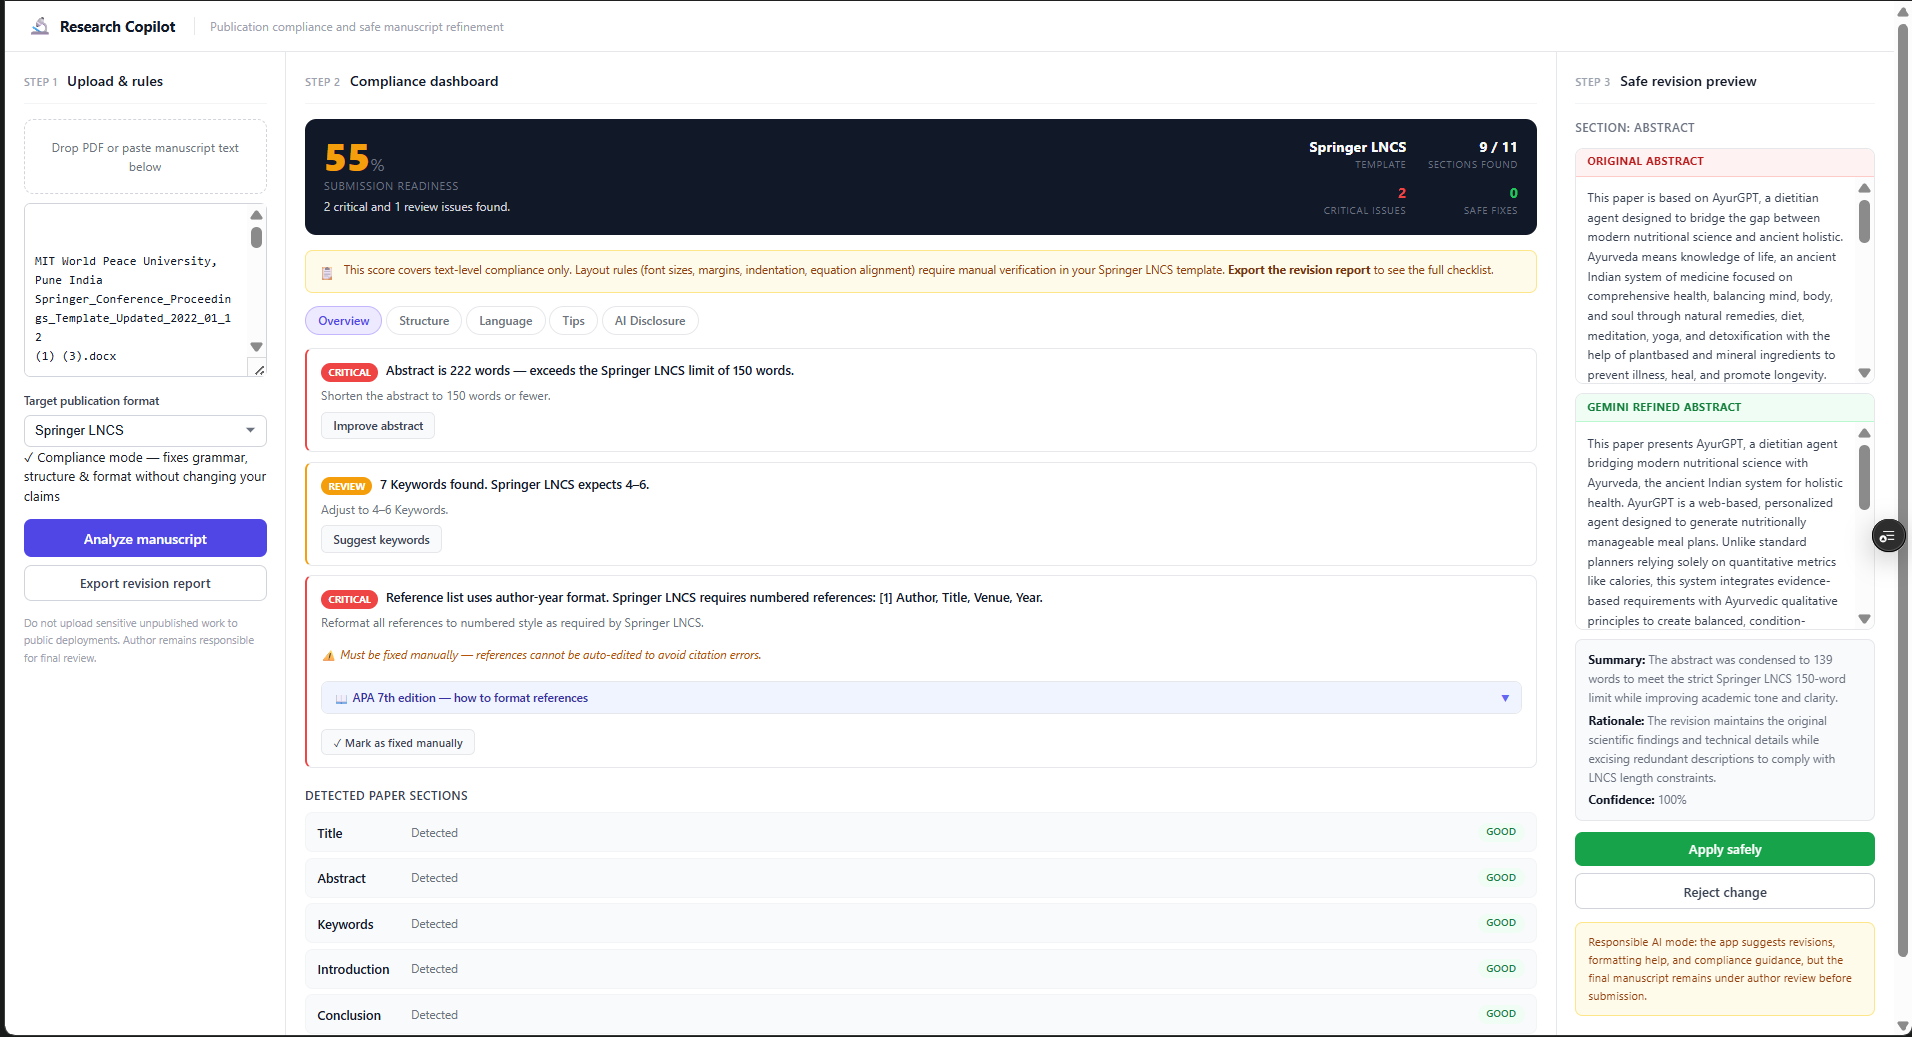
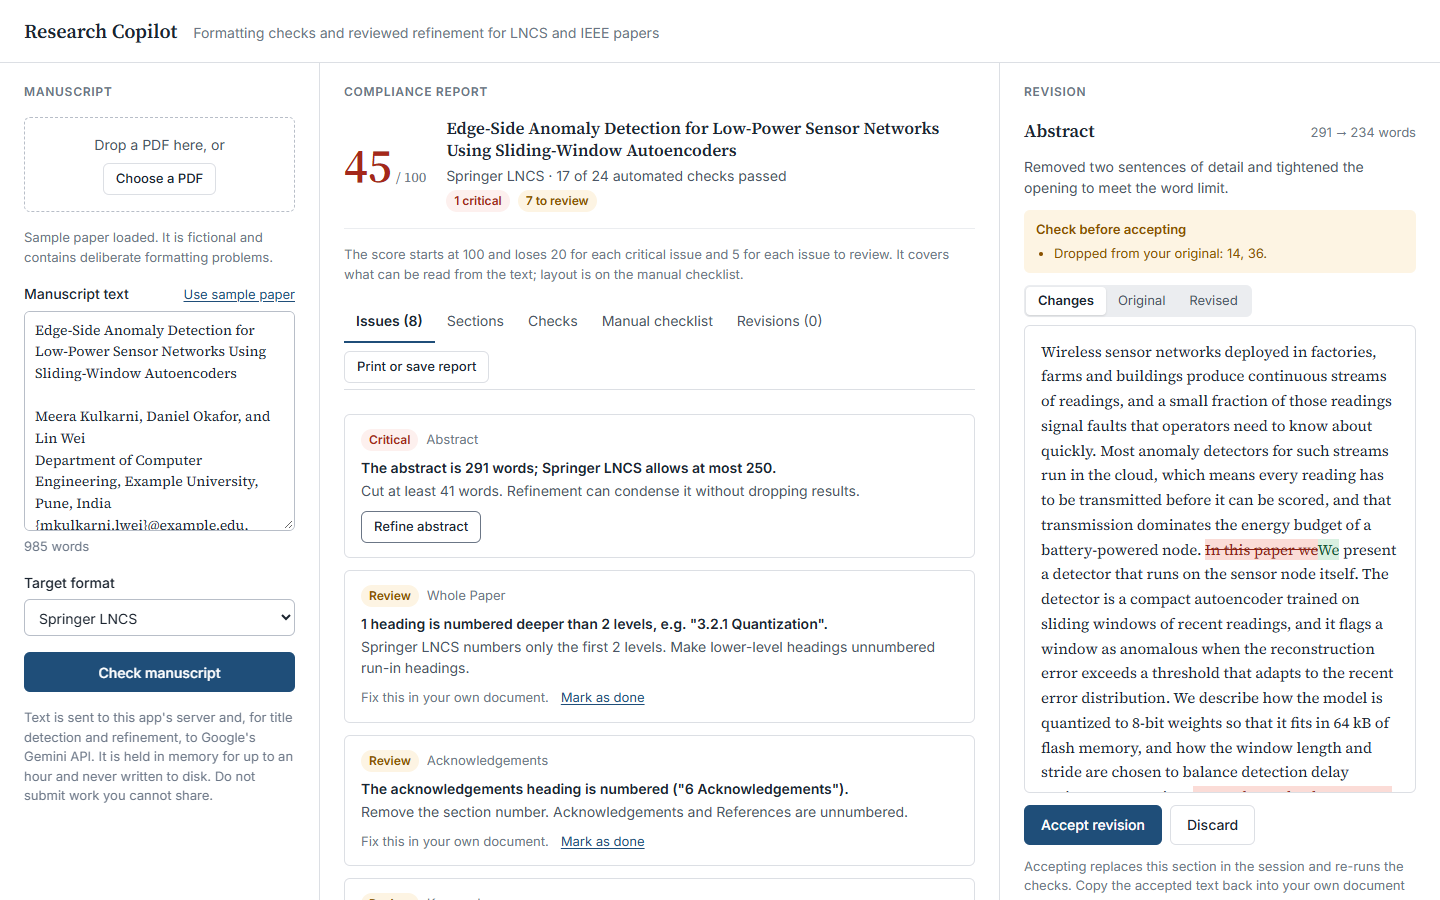
rewrite README and replace demo screenshot

Changed region(s): [[0.0, 0.0, 1.0, 1.0]]

diff --git a/README.md b/README.md
@@ -1,107 +1,139 @@
 # Research Copilot
 
-A web app that checks research manuscripts against Springer LNCS and IEEE Conference formatting rules, then uses Gemini to safely refine individual sections without changing the technical meaning.
+Checks a research manuscript against Springer LNCS or IEEE conference formatting rules, and uses Gemini to refine one section at a time. Every suggested revision is shown as a diff and is only applied when the author accepts it.
 
-**Live demo → [research-copilot-eight.vercel.app](https://research-copilot-eight.vercel.app)**
+**Live demo:** [research-copilot-eight.vercel.app](https://research-copilot-eight.vercel.app). The API runs on a free instance that sleeps when idle, so the first request can take up to a minute. Use the "Use sample paper" link to try it without a manuscript.
 
----
-![Compliance dashboard](docs/demo.png)
-
----
+![Compliance report with a revision open](docs/demo.png)
 
 ## What it does
 
-Paste or upload a manuscript, pick a target publication format, and get:
+1. Paste manuscript text or upload a PDF.
+2. Pick a target format: Springer LNCS or IEEE Conference.
+3. Get a report: failed checks with severity, a per-section status, a pass/fail table of every automated check, and a checklist of layout rules that cannot be verified from text.
+4. Ask for a refinement of a section. The revision appears as a word-level diff next to the original.
+5. Accept or discard it. Accepting re-runs the checks.
+6. Print or save the report, including the full text of accepted revisions.
 
-- A structured compliance report with issues grouped by severity
-- Section-level detection: missing sections, weak abstract, bad citation style, caption format, acronym issues
-- Gemini-powered refinement for any section, with a side-by-side diff before you accept
-- Exportable checklist of what was flagged and what was fixed
-
-It does not rewrite your paper. It does not change your claims. Every AI-assisted change is shown in a diff so you stay in control.
-
----
-
-## Try it fast
-
-1. Open the live demo
-2. Paste any research abstract or upload a PDF
-3. Select **Springer LNCS**
-4. Click **Analyze manuscript**
-5. Hit **Improve abstract** on any flagged issue to see Gemini refine it with a side-by-side diff
-
-No account needed.
-
----
+It does not generate papers, check plagiarism, manage citations, or verify layout (fonts, margins, columns). It works on text only.
 
 ## How it works
 
 ```
-Paste/upload manuscript
-  → pick LNCS or IEEE
-  → Gemini extracts structure (title, abstract, sections, keywords)
-  → rule engine checks compliance against profile config
-  → report with Critical / Review severity tags
-  → click Refine on any section
-  → Gemini returns revised_text + change_summary + confidence score
-  → diff view → accept or discard
+text or PDF
+  → PDF text extraction (pdf.js), running heads removed, hyphenated words rejoined
+  → section parser: numbered and standard headings, validated by numbering sequence
+  → Gemini: title / abstract / keywords from the first page, kept only if found verbatim in the source
+  → rule engine: deterministic checks driven by a profile config
+  → report
+
+refine a section
+  → Gemini (JSON mode, fixed schema, low temperature) with the failed rules as requirements
+  → deterministic check: every number and citation in the original must survive; none may be added
+  → one retry with the specific failure, then remaining problems are shown to the author as warnings
+  → diff → accept or discard
 ```
 
----
+Design decisions worth knowing about:
+
+- **The score never comes from the model.** All checks are regular code in [evaluateCompliance.js](backend/src/rules/evaluateCompliance.js). The score is `100 − 20 × critical − 5 × review`.
+- **Gemini is optional for analysis.** If the API key is missing, rate-limited or down, parsing falls back to rules alone and the report still renders. Only refinement needs Gemini.
+- **Model output is checked, not trusted.** Extracted fields must appear word for word in the manuscript. Revisions are compared against the original for changed numbers and citations ([preservation.js](backend/src/ai/preservation.js)).
+- **Only some issues are refinable.** Length, wording and keyword count can be fixed by rewriting. Missing sections, reference format, heading numbering and captions are marked as manual, because fixing them would require the model to invent content or restructure the paper.
+- **References are never sent for rewriting.**
+
+## Checks
+
+| Area | Checks |
+|---|---|
+| Structure | required sections present, section order, heading numbering style, heading depth, unnumbered acknowledgements |
+| Title | no trailing period, not all capitals |
+| Abstract | word count within the profile range, no citations |
+| Keywords | count within range, label matches the format ("Keywords" or "Index Terms") |
+| Citations | numeric in-text style, numbered reference list |
+| Figures and tables | caption format for the profile |
+| Language | undefined acronyms, contractions and conversational phrases per section |
+| Other | author e-mail on the first page, page estimate from word count |
+
+Profile values live in [backend/src/profiles](backend/src/profiles). They follow the publishers' general author guidelines; a specific conference can be stricter, so confirm limits against your call for papers.
 
 ## Stack
 
 | Layer | Tech |
 |---|---|
-| Frontend | React + Vite → Vercel |
-| Backend | Node.js + Express → Render |
-| AI | Gemini API (`gemini-2.5-flash-lite` with `gemini-3.1-flash-lite` as primary, configurable via `GEMINI_MODEL` env) |
-| Storage | In-memory session store |
-
----
+| Frontend | React 19, Vite, plain CSS, [jsdiff](https://github.com/kpdecker/jsdiff). Deployed on Vercel |
+| Backend | Node.js, Express 5, pdf-parse, express-rate-limit. Deployed on Render |
+| AI | Gemini API via `@google/generative-ai`, with a fallback model |
+| Storage | In-memory sessions, one-hour idle expiry, capped at 200 |
 
 ## Run locally
 
+Requires Node 22.3 or newer.
+
 ```bash
-# backend
+# API
 cd backend
 npm install
-cp .env.example .env   # add your GEMINI_API_KEY
-npm start
+cp .env.example .env    # add GEMINI_API_KEY; the API also runs without one
+npm run dev             # http://localhost:4000
 
-# frontend
+# Web app
 cd frontend
 npm install
-npm run dev
+npm run dev             # http://localhost:5173
 ```
 
-Frontend runs on `localhost:5173`, backend on `localhost:4000`.
+```bash
+cd backend && npm test  # parser, rule engine, preservation check, refinement retry, HTTP API
+```
 
----
+### Environment variables
+
+| Variable | Where | Purpose |
+|---|---|---|
+| `GEMINI_API_KEY` | backend | Gemini key. Optional for analysis, required for refinement |
+| `GEMINI_MODEL`, `GEMINI_FALLBACK_MODEL` | backend | Model overrides |
+| `ALLOWED_ORIGINS` | backend | Comma-separated frontend origins allowed by CORS |
+| `VITE_API_URL` | frontend | Base URL of the API |
+
+## API
+
+| Method | Path | Body | Returns |
+|---|---|---|---|
+| POST | `/api/extract-pdf` | multipart, field `pdf` | `{ text, pages, truncated }` |
+| POST | `/api/analyze` | `{ text, profile }` | `{ sessionId, title, extraction, report }` |
+| POST | `/api/reanalyze` | `{ sessionId, profile }` | `{ report }` for a different profile, no Gemini call |
+| POST | `/api/refine-section` | `{ sessionId, section }` | `{ suggestion }` |
+| POST | `/api/apply-suggestion` | `{ sessionId, section }` | `{ report, revisions }` |
+
+Errors are `{ "error": "message" }` with a matching status code. A lost session returns 404 with `"code": "SESSION_EXPIRED"`.
 
 ## Project structure
 
 ```
-research-copilot/
-├── frontend/src/
-│   ├── components/       # upload, Report, DiffViewer, Refine panels
-│   └── api.js            # all fetch calls to backend
-└── backend/src/
-    ├── ai/
-    │   ├── geminiClient.js   # section extraction with retry
-    │   └── geminiRefine.js   # safe section refinement
-    ├── rules/
-    │   └── evaluateCompliance.js   # deterministic rule engine
-    ├── profiles/             # LNCS and IEEE config objects
-    └── store.js              # session store
+backend/
+  src/
+    app.js, server.js       Express app and entry point
+    routes/                 one file per endpoint
+    manuscript/             text cleanup, section parser, PDF text handling
+    rules/                  compliance checks
+    profiles/               LNCS and IEEE rule values and manual checklists
+    ai/                     Gemini client, front-matter extraction, refinement, preservation check
+    store.js                in-memory sessions
+  tests/
+frontend/
+  src/
+    App.jsx                 state and layout
+    api.js                  API calls
+    components/             form, report, diff, revision panel, printable report
 ```
 
----
+## Limitations
 
-## Profiles
-
-Two profiles are supported: **Springer LNCS** and **IEEE Conference**. Each defines required sections, abstract word limits, keyword count range, citation style, heading depth, and caption format rules. Switching profiles on the same manuscript produces different compliance issues.
-
----
-
-Built for the [Build with Gemini](https://build-with-gemini-0.devpost.com/) hackathon.
+- Text only. Fonts, margins, columns and figure placement are not checked; they are listed as a manual checklist.
+- Headings are found by numbering and by a list of standard names. An unnumbered, non-standard heading is not recognised and its text is folded into the previous section.
+- Scanned PDFs are rejected; there is no OCR. Multi-column reading order depends on how the PDF was produced.
+- The preservation check covers numbers and citation markers. It does not detect a claim that was reworded into a different claim, which is why every revision needs the author's review.
+- Sections over roughly 1,800 words cannot be refined in one pass.
+- Sessions live in memory. A server restart loses them, and the app cannot scale past one instance without moving them to a shared store.
+- Page count is estimated from word count and ignores figures and tables.
